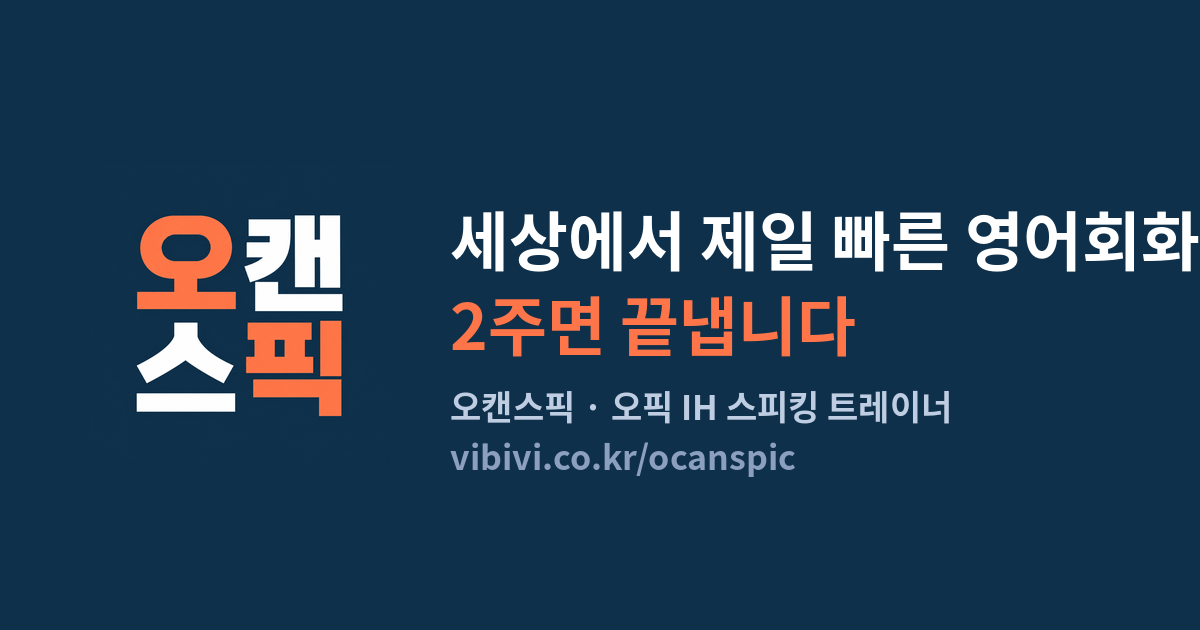
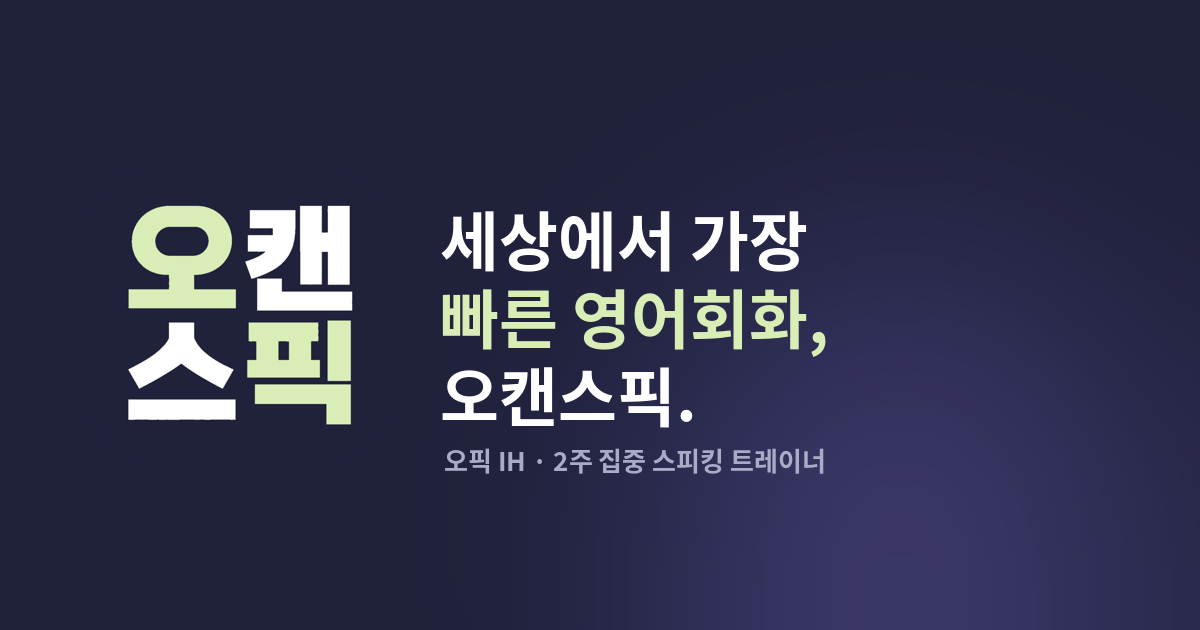
Add files via upload

diff --git a/index.html b/index.html
@@ -7,12 +7,13 @@
 <meta name="theme-color" content="#20213B">
 <meta property="og:type" content="website">
 <meta property="og:site_name" content="오캔스픽">
-<meta property="og:title" content="오캔스픽 — 세상에서 제일 빠른 영어회화, 2주면 끝냅니다">
+<meta property="og:title" content="오캔스픽 — 세상에서 가장 빠른 영어회화">
 <meta property="og:description" content="오픽 IH 2주 스피킹 트레이너. 실전 모의고사 · 말하기 자동 채점 · 오늘의 퀘스트. 데스크톱 설치 권장.">
 <meta property="og:url" content="https://www.ocanspic.com">
-<meta property="og:image" content="https://www.ocanspic.com/og.png">
+<meta property="og:image" content="https://www.ocanspic.com/og.png?v=2">
 <meta property="og:image:width" content="1200"><meta property="og:image:height" content="630">
 <meta name="twitter:card" content="summary_large_image">
+<meta name="twitter:image" content="https://www.ocanspic.com/og.png?v=2">
[1 lines of base64/hex data omitted]
 <link rel="canonical" href="https://www.ocanspic.com">
 <title>오캔스픽</title>
